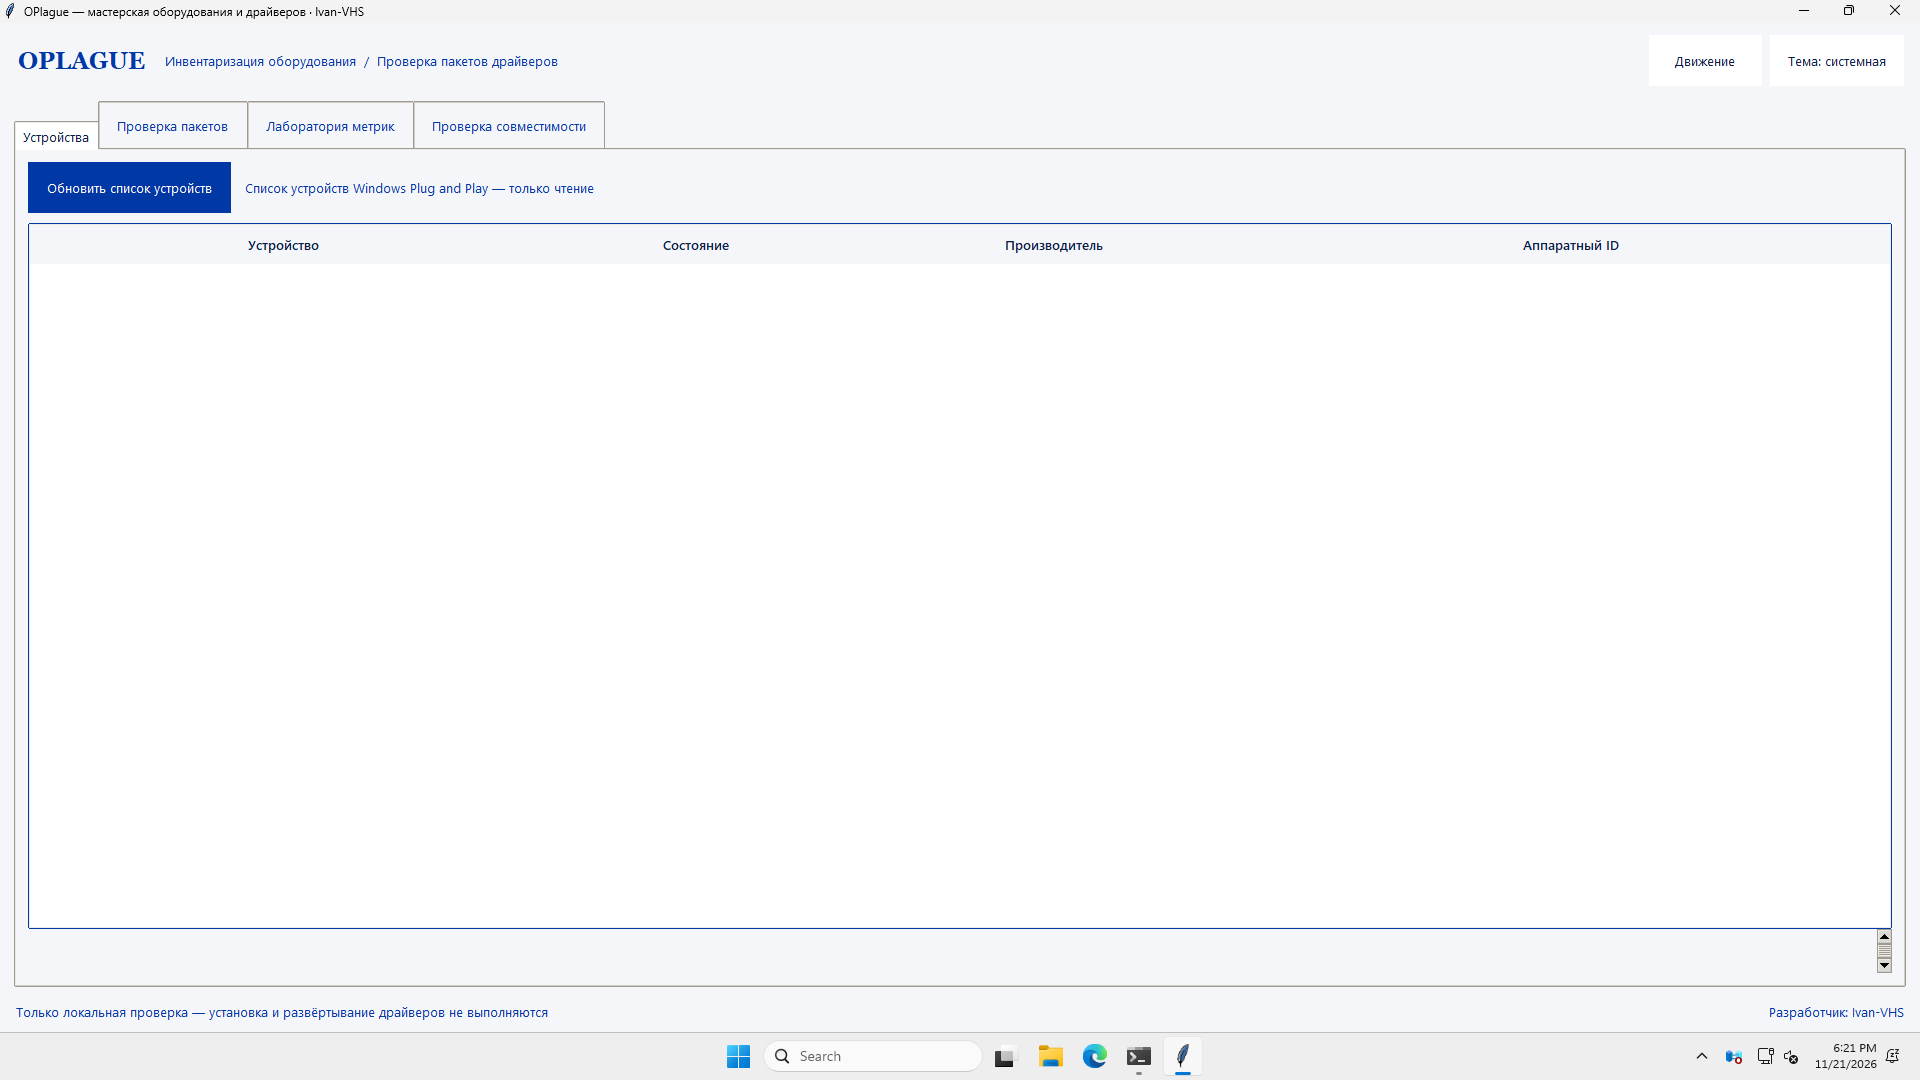
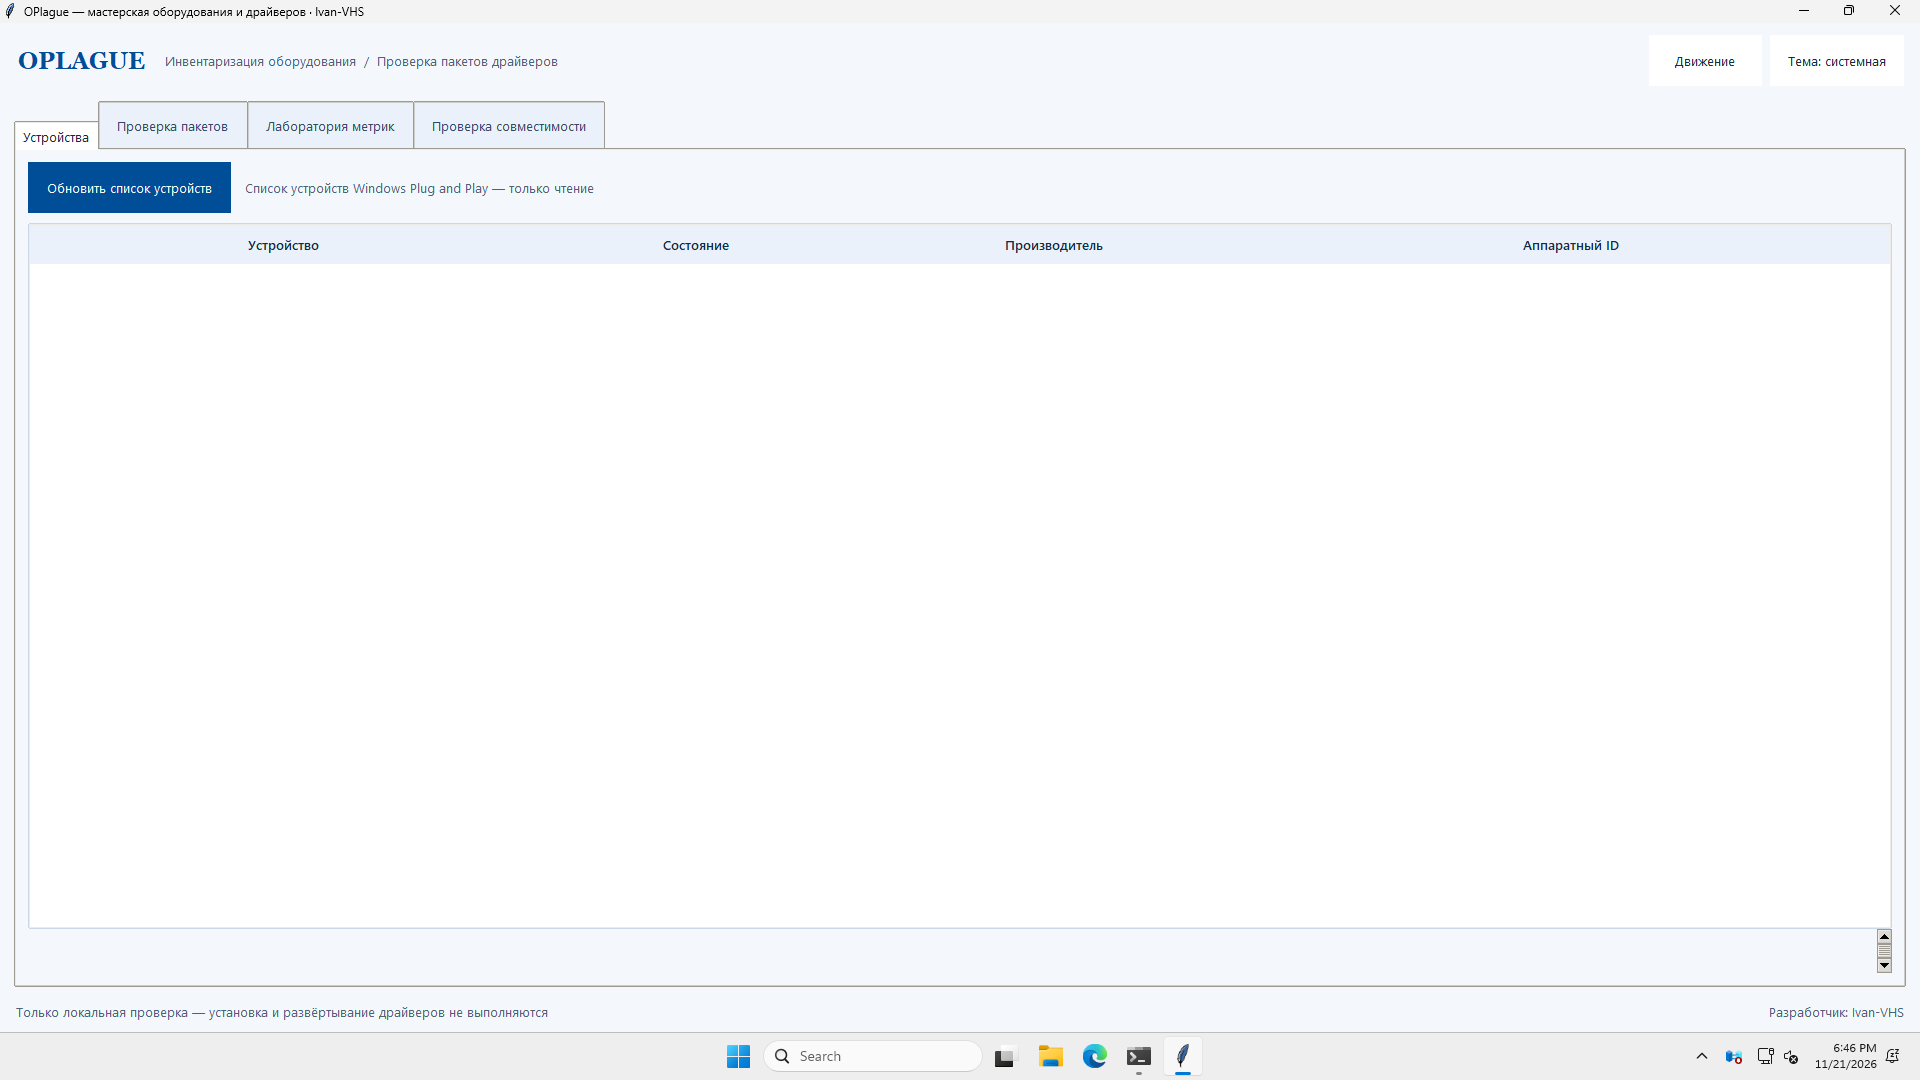
feat(ui): align OPlague UI contract on latest main

diff --git a/ui_theme.py b/ui_theme.py
@@ -15,22 +15,22 @@ from typing import Iterator
 THEME_ENV = "OPLAGUE_UI_THEME"
 PALETTES: dict[str, dict[str, str]] = {
     "light": {
-        "bg": "#F4F6FA", "surface": "#FFFFFF", "elevated": "#F4F6FA",
-        "fg": "#0A1E46", "secondary": "#0039A6", "muted": "#0039A6",
-        "heading": "#0039A6", "blue": "#0039A6", "blue_hover": "#0A1E46", "on_blue": "#FFFFFF",
-        "red": "#B51A10", "red_hover": "#D52B1E", "on_red": "#FFFFFF",
-        "border": "#0039A6", "focus": "#D52B1E",
-        "selection": "#0039A6", "selection_fg": "#FFFFFF", "disabled": "#0039A6",
+        "bg": "#F4F8FD", "surface": "#FFFFFF", "elevated": "#EAF1FA",
+        "fg": "#122C45", "secondary": "#314B66", "muted": "#4D6177",
+        "heading": "#004E98", "blue": "#004E98", "blue_hover": "#1A5FDB", "on_blue": "#FFFFFF",
+        "red": "#B5122D", "red_hover": "#9C1026", "on_red": "#FFFFFF",
+        "border": "#CAD8E8", "focus": "#1A5FDB",
+        "selection": "#D9E8FF", "selection_fg": "#122C45", "disabled": "#6B7C90",
         "log": "#0A1E46", "log_text": "#FFFFFF", "mode": "light",
     },
     "dark": {
-        "bg": "#0A1E46", "surface": "#0039A6", "elevated": "#0039A6",
-        "fg": "#FFFFFF", "secondary": "#FFFFFF", "muted": "#FFFFFF",
-        "heading": "#FFFFFF", "blue": "#0039A6", "blue_hover": "#0A1E46", "on_blue": "#FFFFFF",
-        "red": "#B51A10", "red_hover": "#D52B1E", "on_red": "#FFFFFF",
-        "border": "#FFFFFF", "focus": "#D52B1E",
-        "selection": "#0A1E46", "selection_fg": "#FFFFFF", "disabled": "#FFFFFF",
-        "log": "#0A1E46", "log_text": "#FFFFFF", "mode": "dark",
+        "bg": "#071A2D", "surface": "#0F2A45", "elevated": "#173A5E",
+        "fg": "#E8EDF2", "secondary": "#D0DCE8", "muted": "#B3C4D6",
+        "heading": "#FFFFFF", "blue": "#70A5FF", "blue_hover": "#8AB6FF", "on_blue": "#071A2D",
+        "red": "#FF7B86", "red_hover": "#FF9AA2", "on_red": "#071A2D",
+        "border": "#31516F", "focus": "#8AB6FF",
+        "selection": "#244F82", "selection_fg": "#FFFFFF", "disabled": "#9BAFC4",
+        "log": "#071A2D", "log_text": "#E8EDF2", "mode": "dark",
     },
 }
 

diff --git a/tools/validate_visual_canon.py b/tools/validate_visual_canon.py
@@ -9,6 +9,32 @@ import sys
 from pathlib import Path
 
 ALLOWED = {
+    # Shared 2026 semantic light/dark token extension.
+    "#F4F8FD",
+    "#0F2A45",
+    "#EAF1FA",
+    "#173A5E",
+    "#122C45",
+    "#E8EDF2",
+    "#314B66",
+    "#D0DCE8",
+    "#4D6177",
+    "#B3C4D6",
+    "#004E98",
+    "#70A5FF",
+    "#1A5FDB",
+    "#8AB6FF",
+    "#071A2D",
+    "#B5122D",
+    "#FF7B86",
+    "#9C1026",
+    "#FF9AA2",
+    "#CAD8E8",
+    "#31516F",
+    "#D9E8FF",
+    "#244F82",
+    "#6B7C90",
+    "#9BAFC4",
     "#FFFFFF",
     "#F4F6FA",
     "#0039A6",
@@ -24,6 +50,10 @@ AAA_TEXT_PAIRS = (
     ("#0039A6", "#F4F6FA"),
     ("#FFFFFF", "#0039A6"),
     ("#FFFFFF", "#0A1E46"),
+    ("#122C45", "#F4F8FD"),
+    ("#E8EDF2", "#071A2D"),
+    ("#FFFFFF", "#004E98"),
+    ("#071A2D", "#70A5FF"),
 )
 
 

diff --git a/tests/test_ui_theme.py b/tests/test_ui_theme.py
@@ -75,6 +75,13 @@ class OPlagueThemeTests(unittest.TestCase):
     def test_preferred_theme_loader_returns_supported_mode(self):
         self.assertIn(load_preferred_theme(), {"system", "light", "dark"})
 
+    def test_focus_and_supporting_text_have_semantic_contrast(self):
+        for palette in PALETTES.values():
+            self.assertGreaterEqual(contrast_ratio(palette["focus"], palette["bg"]), 3.0)
+            self.assertGreaterEqual(contrast_ratio(palette["muted"], palette["bg"]), 4.5)
+            self.assertNotEqual(palette["blue"], palette["red"])
+
+
 
 if __name__ == "__main__":
     unittest.main()

diff --git a/docs/UI_UX_2026_CONVERGENCE.md b/docs/UI_UX_2026_CONVERGENCE.md
@@ -1,0 +1,73 @@
+# UI/UX 2026 — shared product interface contract
+
+**Maintainer:** Ivan-VHS · **Product:** OPlague  
+**Design language:** AETHER-ANAS / Anatidae — consistent white/blue/red identity adapted to native platform behavior.
+
+This contract is for a read-only hardware and driver inspection workbench. Clear evidence, bounded actions and explicit state matter more than ornamental effects.
+
+## Semantic palette
+
+| Token | Light | Dark | Role |
+|---|---|---|---|
+| bg | #F4F8FD | #071A2D | Workspace |
+| surface | #FFFFFF | #0F2A45 | Main panels |
+| elevated | #EAF1FA | #173A5E | Secondary surfaces |
+| fg | #122C45 | #E8EDF2 | Primary text |
+| secondary | #314B66 | #D0DCE8 | Supporting text |
+| muted | #4D6177 | #B3C4D6 | Metadata |
+| blue | #004E98 | #70A5FF | Primary actions/navigation |
+| blue_hover | #1A5FDB | #8AB6FF | Hover and focus |
+| on_blue | #FFFFFF | #071A2D | Text on blue |
+| red | #B5122D | #FF7B86 | Critical/destructive states |
+| red_hover | #9C1026 | #FF9AA2 | Critical-action hover |
+| on_red | #FFFFFF | #071A2D | Text on red |
+| border | #CAD8E8 | #31516F | Boundaries |
+| focus | #1A5FDB | #8AB6FF | Keyboard focus |
+| selection | #D9E8FF | #244F82 | Selected content |
+| selection_fg | #122C45 | #FFFFFF | Text on selection |
+| disabled | #6B7C90 | #9BAFC4 | Disabled text |
+
+Blue is the normal action/navigation/focus language. Red is reserved for critical and destructive states. Keep data surfaces opaque and stable.
+
+## Hierarchy and density
+
+- Keep device inventory, package inspection, metric comparison, compatibility dry-run and reports clearly separated.
+- Use an 8 px spacing rhythm, visible column headings and explicit status text.
+- Prefer 40–44 px actions and 38–44 px controls; dense tables may use 34–36 px rows if readable.
+- Use monospace text for hashes, hardware IDs, JSON and diagnostic output.
+- Preserve resizable columns, scrollable reports and clear metadata/export boundaries.
+
+## Accessibility and input
+
+- Give controls accessible names and visible keyboard focus; retain native keyboard navigation and resizing.
+- Target 4.5:1 contrast for normal text and 3:1 for focus; aim for 7:1 body text where practical.
+- Never present compatibility or safety as a color-only badge. Show evidence, caveats and readable status text.
+- Reduced Motion overrides Expressive Motion. Eco suppresses nonessential visual work and respects native OS settings.
+
+## Motion 2026
+
+| Event | Timing |
+|---|---:|
+| Direct acknowledgement | 0–40 ms |
+| Hover/focus/state | 80–140 ms |
+| Pane transition | 160–240 ms |
+| Context transition | 260–380 ms |
+| Reduced-motion replacement | ≤80 ms |
+
+Expressive Motion may scale supported transitions by 1.35×, capped at 380 ms. Reduced Motion removes spatial movement and caps retained fades at 80 ms; Eco follows the same conservative path. Animation remains on the UI thread and never blocks inventory or file analysis. OPlague has no audio transport; BPM sync remains unavailable.
+
+## Responsive and high-DPI
+
+Reflow metric input panels instead of shrinking editors. Validate narrow/wide windows, keyboard-only use and 100%, 125%, 150% and 200% scaling. Manual monitor review is pending until performed.
+
+## Product-specific implementation
+
+OPlague is a hardware and driver inspection workbench. Keep inventory and package analysis read-only, make hashes and compatibility evidence easy to inspect, and retain scrollable reports and resizable tables. Do not add driver installation, firmware flashing or hidden device mutation as UI decoration. There is no project audio transport, so BPM sync stays disabled.
+
+## Engineering references
+
+- [Qt Accessibility](https://doc.qt.io/qt-6/accessible.html) · [Qt High DPI](https://doc.qt.io/qt-6/highdpi.html)
+- [WCAG 2.2 Focus Appearance](https://www.w3.org/WAI/WCAG22/Understanding/focus-appearance.html)
+- [Microsoft Windows app design](https://learn.microsoft.com/windows/apps/design/)
+
+Targets are documented; this file does not claim all manual acceptance checks have passed.

diff --git a/docs/DUCK_SOVEREIGN_CANON.md b/docs/DUCK_SOVEREIGN_CANON.md
@@ -14,3 +14,25 @@ Four native GUI stacks remain independent: Pytyliki/Win32, Reaper/Tk, OPlague/Tk
 | Banner red | #B51A10 | critical marker |
 
 Composition guide: white 60% · blue 25% · red 15% (visual target, not measured pixel ratio). Preserve WCAG contrast, keyboard focus, visible state text and native control semantics. No gradient or color-only status.
+
+
+## 2026 semantic extension
+
+The original six brand colors remain canonical. Native desktop themes may additionally use this neutral and semantic extension for calm work surfaces, readable dark mode, selection and accessible focus. Blue remains action/focus; red remains critical/destructive.
+
+| Token | Light | Dark |
+|---|---|---|
+| Workspace | #F4F8FD | #071A2D |
+| Surface | #FFFFFF | #0F2A45 |
+| Elevated | #EAF1FA | #173A5E |
+| Primary text | #122C45 | #E8EDF2 |
+| Secondary | #314B66 | #D0DCE8 |
+| Muted | #4D6177 | #B3C4D6 |
+| Action blue | #004E98 | #70A5FF |
+| Focus / hover blue | #1A5FDB | #8AB6FF |
+| Critical red | #B5122D | #FF7B86 |
+| Critical hover | #9C1026 | #FF9AA2 |
+| Border | #CAD8E8 | #31516F |
+| Selection | #D9E8FF | #244F82 |
+
+The source validator accepts these tokens and continues to enforce high-contrast text pairs. This does not authorize gradients, color-only signals or decorative motion.

diff --git a/docs/UI_UX_SYSTEM.md b/docs/UI_UX_SYSTEM.md
@@ -14,3 +14,7 @@ Themes: System / Light / Dark. Keep tables resizable, data surfaces opaque, keyb
 ## 40026 Codex
 
 The normative six-cycle / 666-rule contract is maintained in [UI/UX Codex 40026](UI_UX_CODEX_40026.md). Light/Dark themes expose brand-compliant Success/Warning/Error/Info text roles and validate all semantic text pairs against 4.5:1 WCAG AA. Inventory and inspection remain read-only by default; no status style implies that a driver has been changed. Keyboard-only and 200% scaling remain release-level manual checks.
+
+## UI/UX 2026 convergence
+
+See [UI_UX_2026_CONVERGENCE.md](UI_UX_2026_CONVERGENCE.md) for shared tokens, accessibility targets, responsive behavior and motion budgets. The read-only product boundary remains authoritative.
